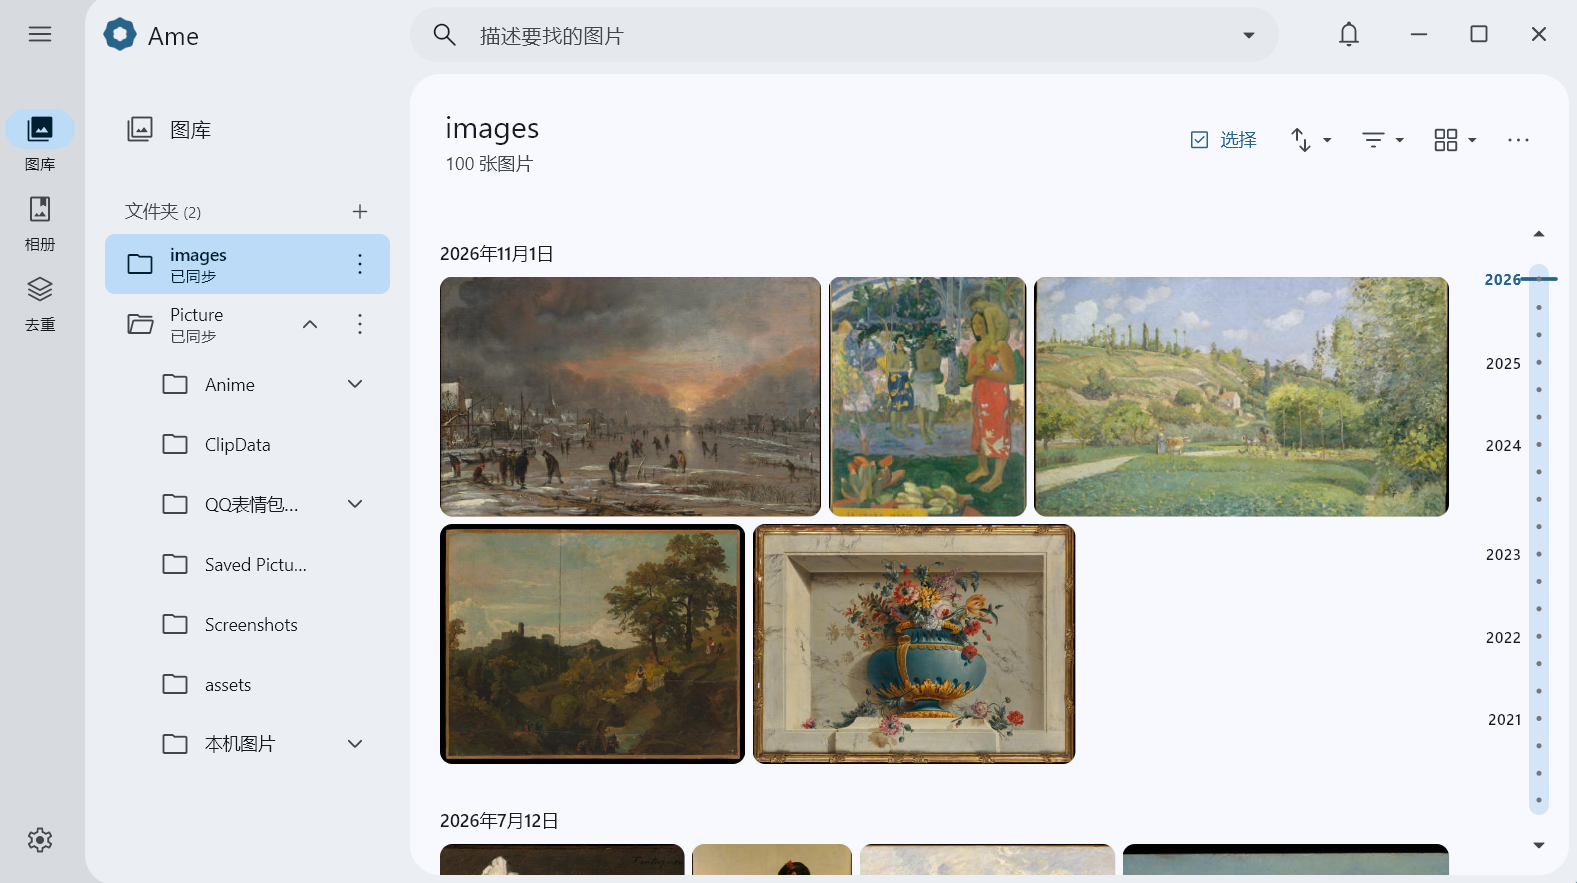
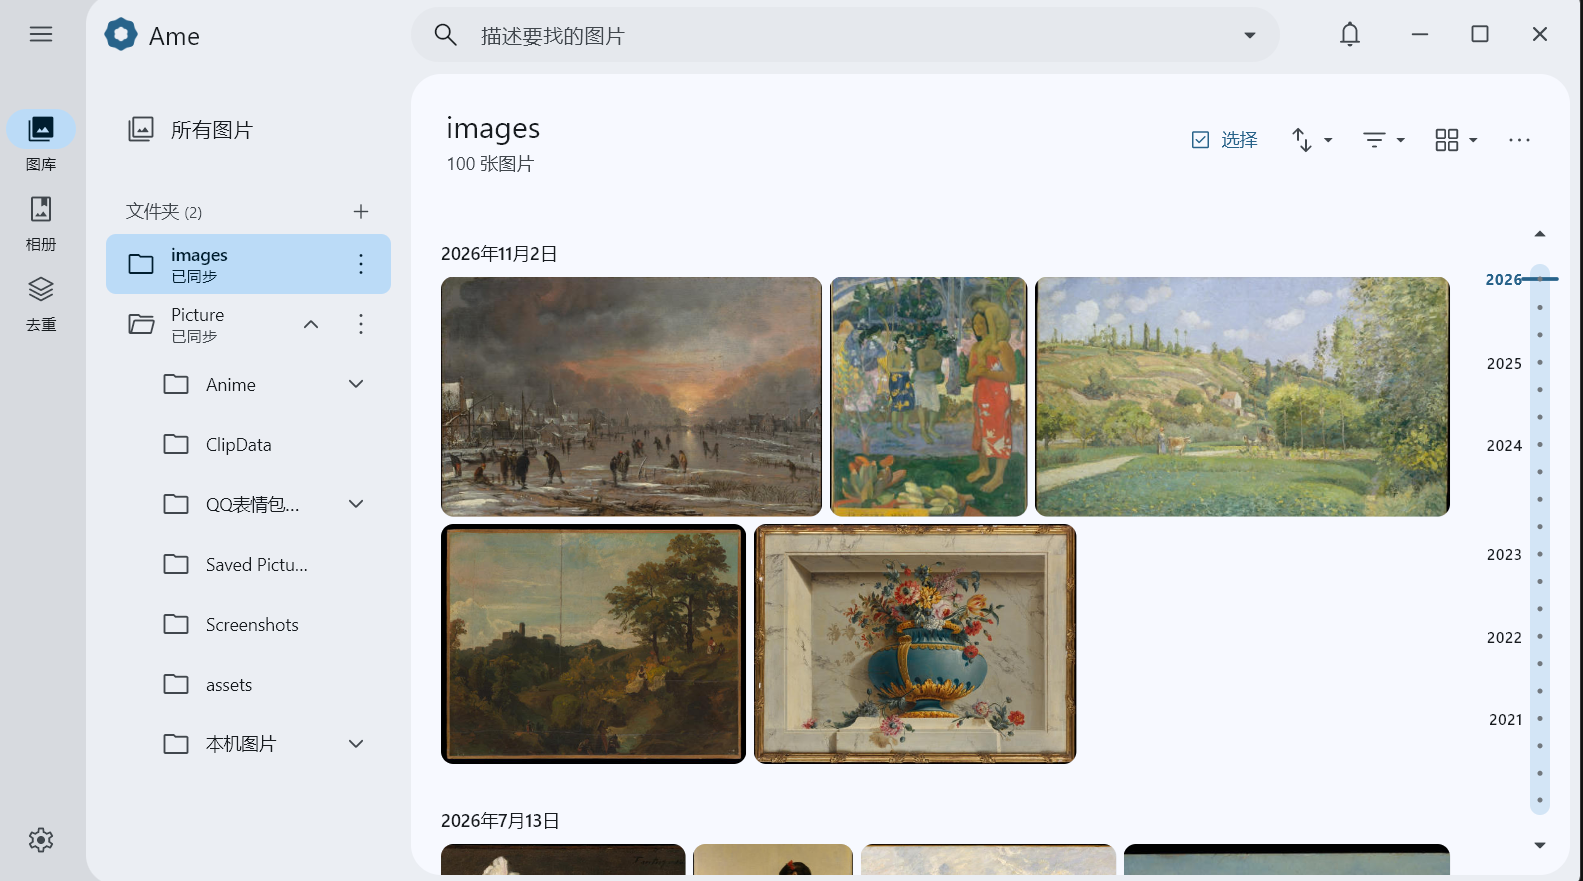
fix(ui): label all-source browsing as all images

diff --git a/lib/features/library/presentation/widgets/library_navigation.dart b/lib/features/library/presentation/widgets/library_navigation.dart
@@ -226,7 +226,7 @@ class _LibraryNavigationState extends State<LibraryNavigation> {
                     children: [
                       if (widget.isCompact) ...[
                         AmeTooltip(
-                          message: LibraryStrings.library,
+                          message: LibraryStrings.allImages,
                           child: IconButton(
                             key: const Key("library-sidebar-library"),
                             focusNode: _libraryFocusNode,
@@ -279,7 +279,7 @@ class _LibraryNavigationState extends State<LibraryNavigation> {
                             child: Icon(Symbols.photo_library_rounded),
                           ),
                           title: Text(
-                            LibraryStrings.library,
+                            LibraryStrings.allImages,
                             style: _navigationTitleStyle(
                               context,
                               widget.selectedRootId == null &&

diff --git a/test/features/library/presentation/pages/unified_library_screen_test.dart b/test/features/library/presentation/pages/unified_library_screen_test.dart
@@ -24,13 +24,19 @@ void main() {
       ),
     );
 
+    expect(
+      find.descendant(
+        of: find.byKey(const Key("library-function-rail")),
+        matching: find.text("图库"),
+      ),
+      findsOneWidget,
+    );
     for (final key in const [
-      Key("library-function-rail"),
       Key("library-sidebar-library"),
       Key("library-gallery-header"),
     ]) {
       expect(
-        find.descendant(of: find.byKey(key), matching: find.text("图库")),
+        find.descendant(of: find.byKey(key), matching: find.text("所有图片")),
         findsOneWidget,
       );
     }

diff --git a/lib/features/library/presentation/library_gallery_title.dart b/lib/features/library/presentation/library_gallery_title.dart
@@ -50,12 +50,12 @@ String libraryGalleryTitle(
     return collectionName == null ? name : "$collectionName · $name";
   }
   final rootId = state.query.rootId;
-  if (rootId == null) return collectionName ?? LibraryStrings.library;
+  if (rootId == null) return collectionName ?? LibraryStrings.allImages;
   for (final root in state.roots) {
     if (root.id == rootId) {
       final name = librarySourceName(root.displayPath);
       return collectionName == null ? name : "$collectionName · $name";
     }
   }
-  return LibraryStrings.library;
+  return LibraryStrings.allImages;
 }

diff --git a/lib/features/library/presentation/library_strings.dart b/lib/features/library/presentation/library_strings.dart
@@ -21,8 +21,8 @@ abstract final class LibraryStrings {
   static const clearSearch = "清除搜索";
 
   // 左侧栏｜图库入口、添加目录入口、设置入口和未添加目录的提示。
-  // “图库”也用作主内容区的默认标题。
   static const library = "图库";
+  static const allImages = "所有图片";
   static const addFolder = "添加目录到图库";
   static const settings = "设置";
   static const noFolder = "还没有添加目录";

diff --git a/docs/acceptance/material-ui-migration.md b/docs/acceptance/material-ui-migration.md
@@ -14,7 +14,10 @@ both collapse and expansion retain the gallery's scroll owner and offset. All 24
 workbench, sidebar, right-edge and duplicate-layout checks passed, including reduced motion,
 enlarged text, stationary right-edge controls and unchanged content-layout counts during motion.
 Formatting and scoped analysis passed. The Profile payload was rebuilt with the receipt-verified
-native library; interactive follow-up is pending. The width-transition and sidebar owners contain
+native library. The isolated Windows client exercised switching to Settings during both sidebar
+collapse and expansion, then returning before the workspace transition finished. Each transition
+continued from an intermediate boundary, retaining the gallery position; normal animation speed
+was restored after slow-motion inspection. The width-transition and sidebar owners contain
 171 and 183 production lines, and the retained-workbench fixture contains 242 test lines.
 
 ### Folder refresh and import recovery, 2026-11-17
@@ -33,7 +36,8 @@ case still retries the original path. Storage admission and native contracts are
 The isolated Profile client reproduced the recurring displacement with an expanded `local-primary`
 branch above the failed source. The rebuilt client retained its position across 18 observations
 during background updates and displayed the storage-conflict reason. The final recovery-button
-build is open for interactive inspection; its native picker/cancel sequence remains unverified.
+build opened the native directory picker after a rejected storage-overlap selection. Canceling
+removed the failed pending row and retained both existing roots and the gallery position.
 The local build reused the receipt-verified native library. Earlier clients exited normally with
 all 700 fixture lengths and modification times unchanged; no new Dart exception, overflow or AXTree
 error was logged. The navigation owner contains 555 production lines; the two affected fixtures

diff --git a/docs/product/gallery-ui.md b/docs/product/gallery-ui.md
@@ -29,6 +29,7 @@ information-architecture choices:
 - one reusable gallery for folder, timeline, category and search scopes;
 - a permanent function rail selects `图库`, `相册`, and `去重`, in that order;
 - the Library workspace owns the collapsible source/folder sidebar and Add folder;
+  its all-source entry and corresponding content heading use `所有图片`;
 - the Albums workspace owns its flat album list and shares the gallery and viewer;
 - Settings remains pinned to the bottom of the function rail;
 - the gallery filter changes duplicate display; the Duplicates workspace owns group review;
